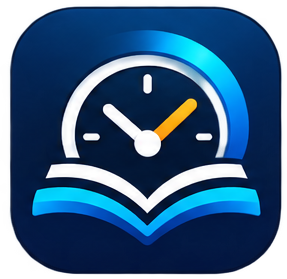
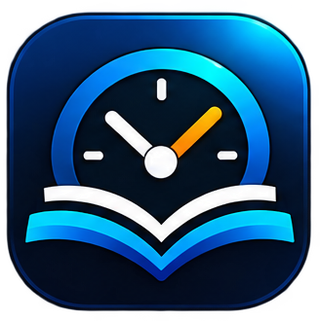
Логотип для тёмной темы без белой подложки и правки README
- вариант логотипа без белой подложки для тёмной темы;
- правки README.

diff --git a/apk/app/src/main/assets/clock.html b/apk/app/src/main/assets/clock.html
@@ -6,7 +6,7 @@
 <meta name="color-scheme" content="dark light">
 <meta name="description" content="Часы и таймер для олимпиад. Полностью автономный файл: работает без интернета.">
 <title id="pageTitle">OlympClock — часы для олимпиад</title>
[2 lines of base64/hex data omitted]
 <meta name="theme-color" content="#16213e">
 
 <!-- превью ссылки: когда кидают адрес часов в мессенджер -->
@@ -47,7 +47,7 @@
     --radius: 14px;
     --shadow: 0 10px 30px rgba(0, 0, 0, .28);
     --pop: #1b2542;
[2 lines of base64/hex data omitted]
     --ff: 'Segoe UI', system-ui, -apple-system, 'Roboto', Arial, sans-serif;
 }
 

diff --git a/index.html b/index.html
@@ -6,7 +6,7 @@
 <meta name="color-scheme" content="dark light">
 <meta name="description" content="Часы и таймер для олимпиад. Полностью автономный файл: работает без интернета.">
 <title id="pageTitle">OlympClock — часы для олимпиад</title>
[2 lines of base64/hex data omitted]
 <meta name="theme-color" content="#16213e">
 
 <!-- превью ссылки: когда кидают адрес часов в мессенджер -->
@@ -47,7 +47,7 @@
     --radius: 14px;
     --shadow: 0 10px 30px rgba(0, 0, 0, .28);
     --pop: #1b2542;
[2 lines of base64/hex data omitted]
     --ff: 'Segoe UI', system-ui, -apple-system, 'Roboto', Arial, sans-serif;
 }
 

diff --git a/README.md b/README.md
@@ -1,5 +1,8 @@
 <p align="center">
-  <img src="assets/logo-card.png" alt="OlympClock" width="470">
+  <picture>
+    <source media="(prefers-color-scheme: dark)" srcset="assets/logo-dark.png">
+    <img src="assets/logo-light.png" alt="OlympClock" width="460">
+  </picture>
 </p>
 
 # Часы и таймер для олимпиад
@@ -10,8 +13,6 @@
 [**Открыть в браузере**](https://robin19666.github.io/olymp-clock/) ·
 [**Скачать файл**](https://github.com/RoBiN19666/olymp-clock/raw/main/index.html) ·
 [**Скачать APK**](https://github.com/RoBiN19666/olymp-clock/releases/latest)
-
-![Расписание олимпиады](screenshots/1_schedule_1080.png)
 
 ---
 

diff --git a/apk/README.md b/apk/README.md
@@ -1,5 +1,8 @@
 <p align="center">
-  <img src="../assets/logo-card.png" alt="OlympClock" width="380">
+  <picture>
+    <source media="(prefers-color-scheme: dark)" srcset="../assets/logo-dark.png">
+    <img src="../assets/logo-light.png" alt="OlympClock" width="460">
+  </picture>
 </p>
 
 # OlympClock — Android-обёртка (APK)
